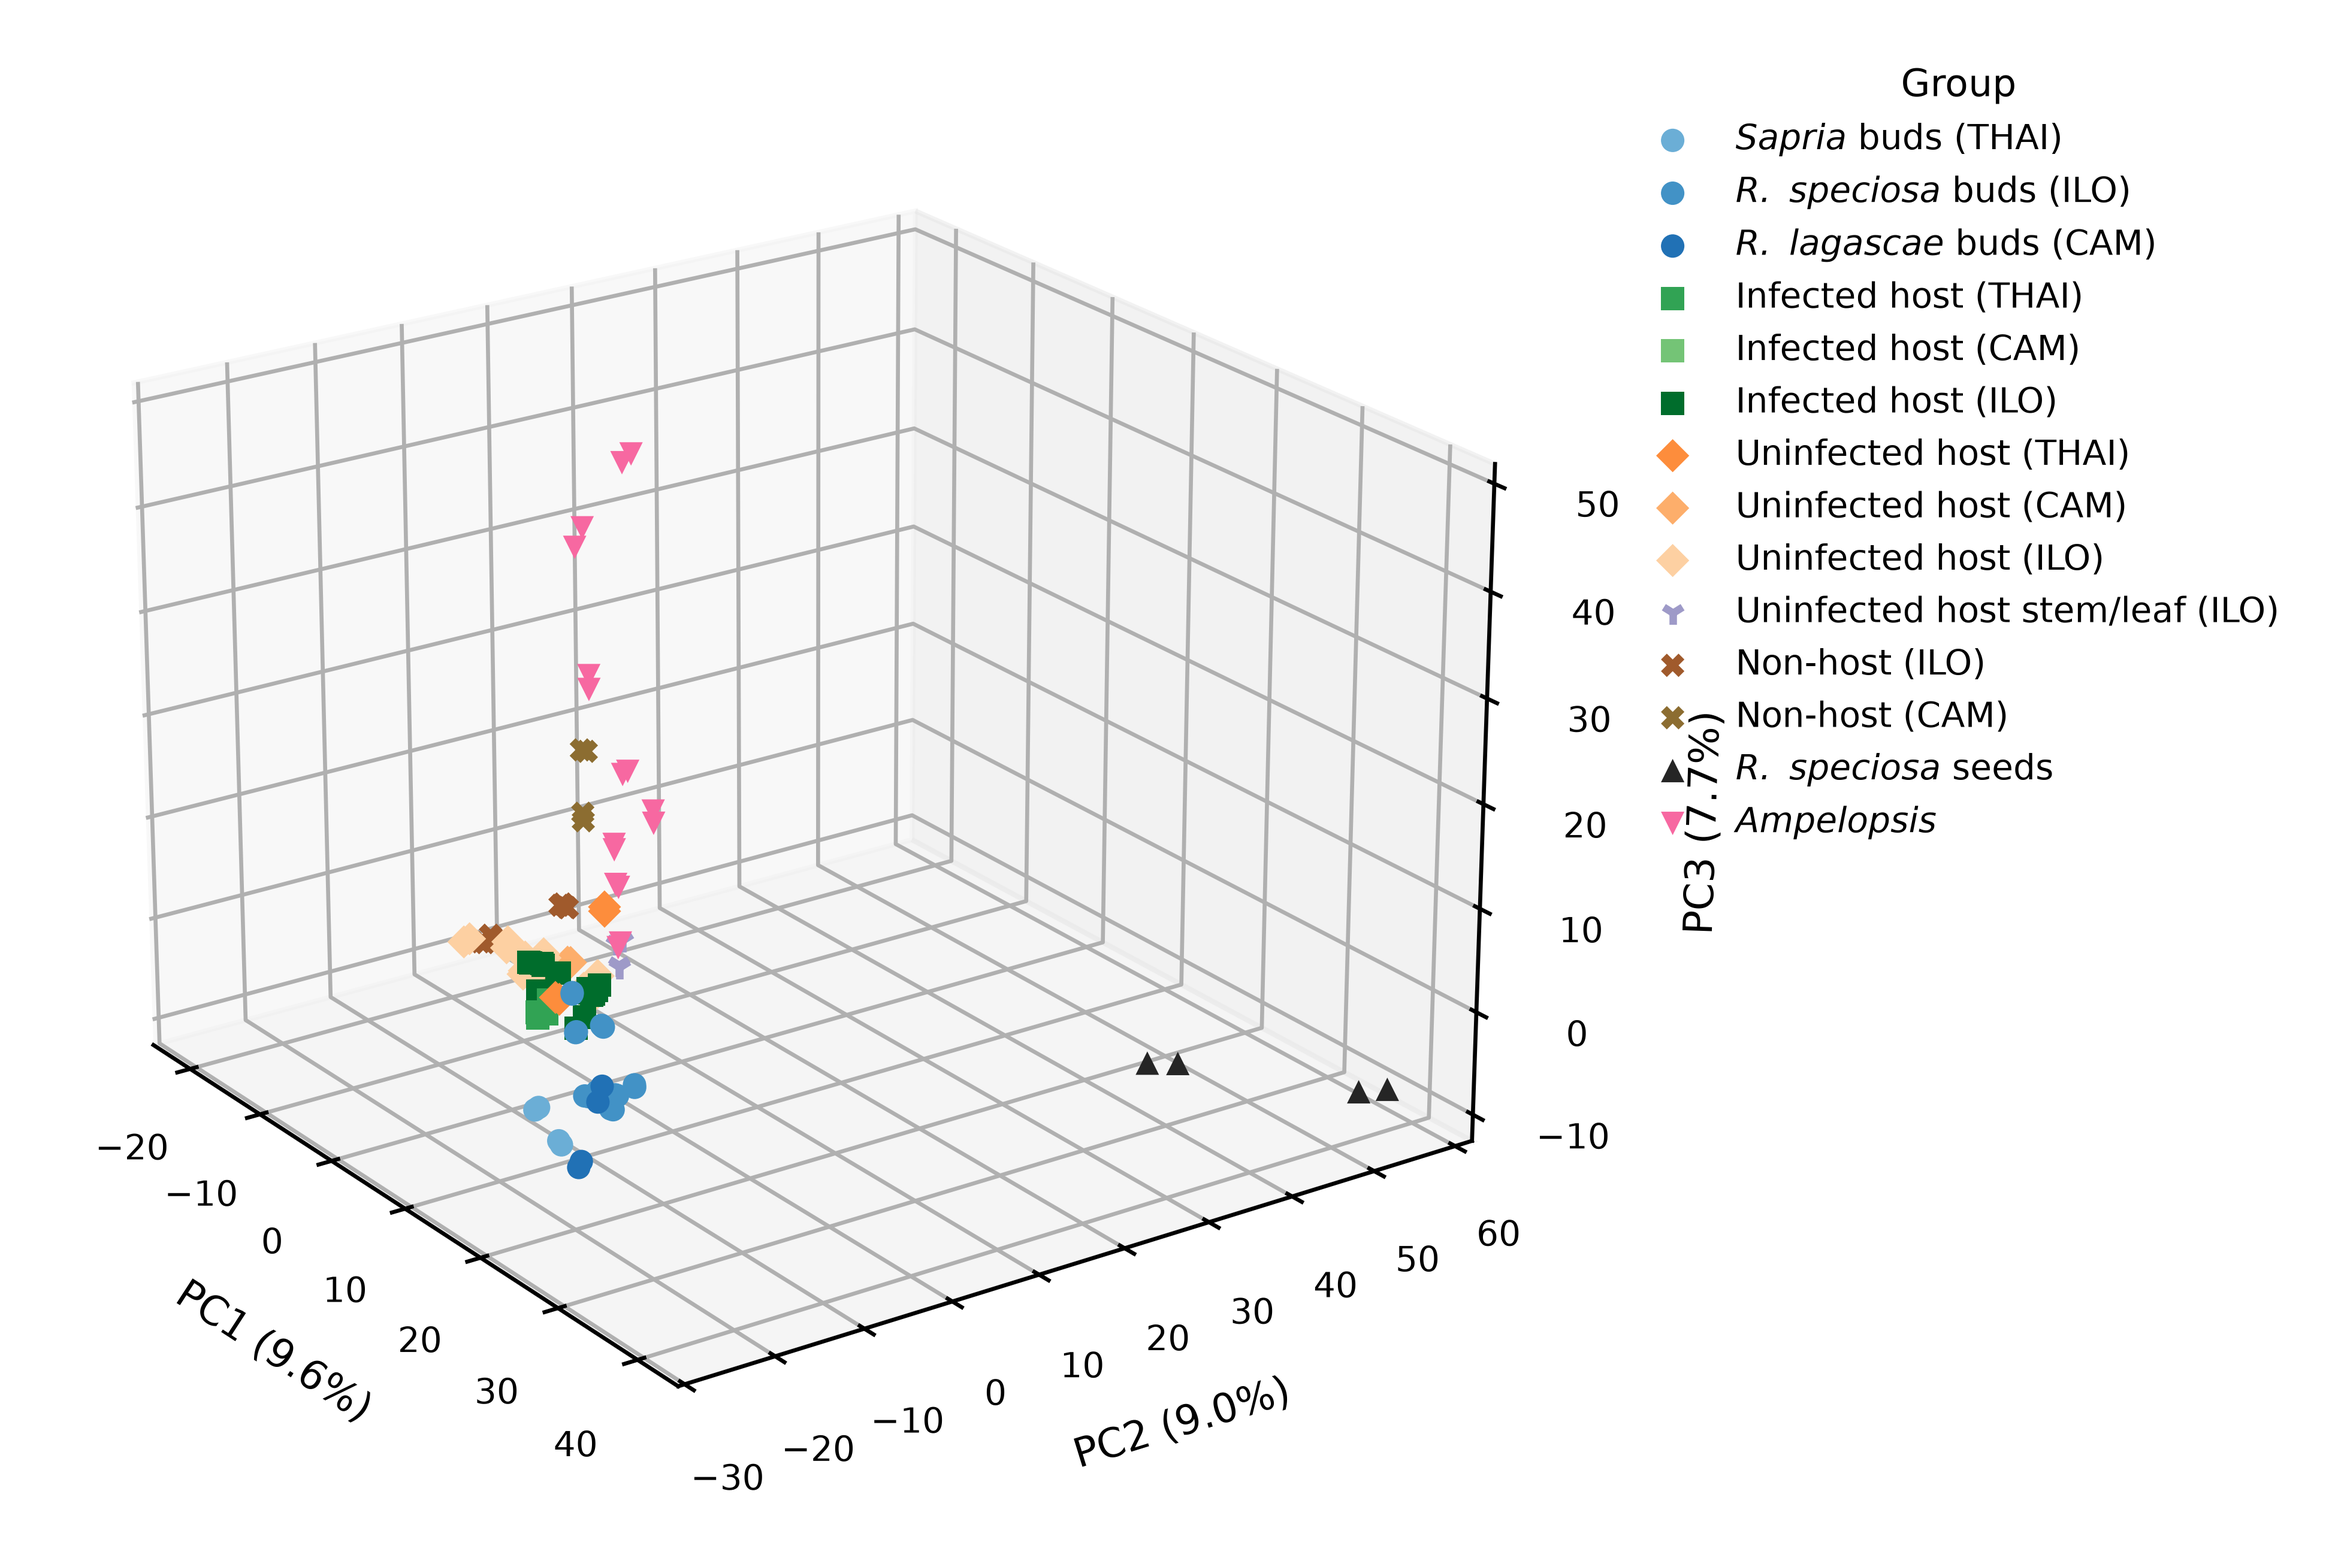
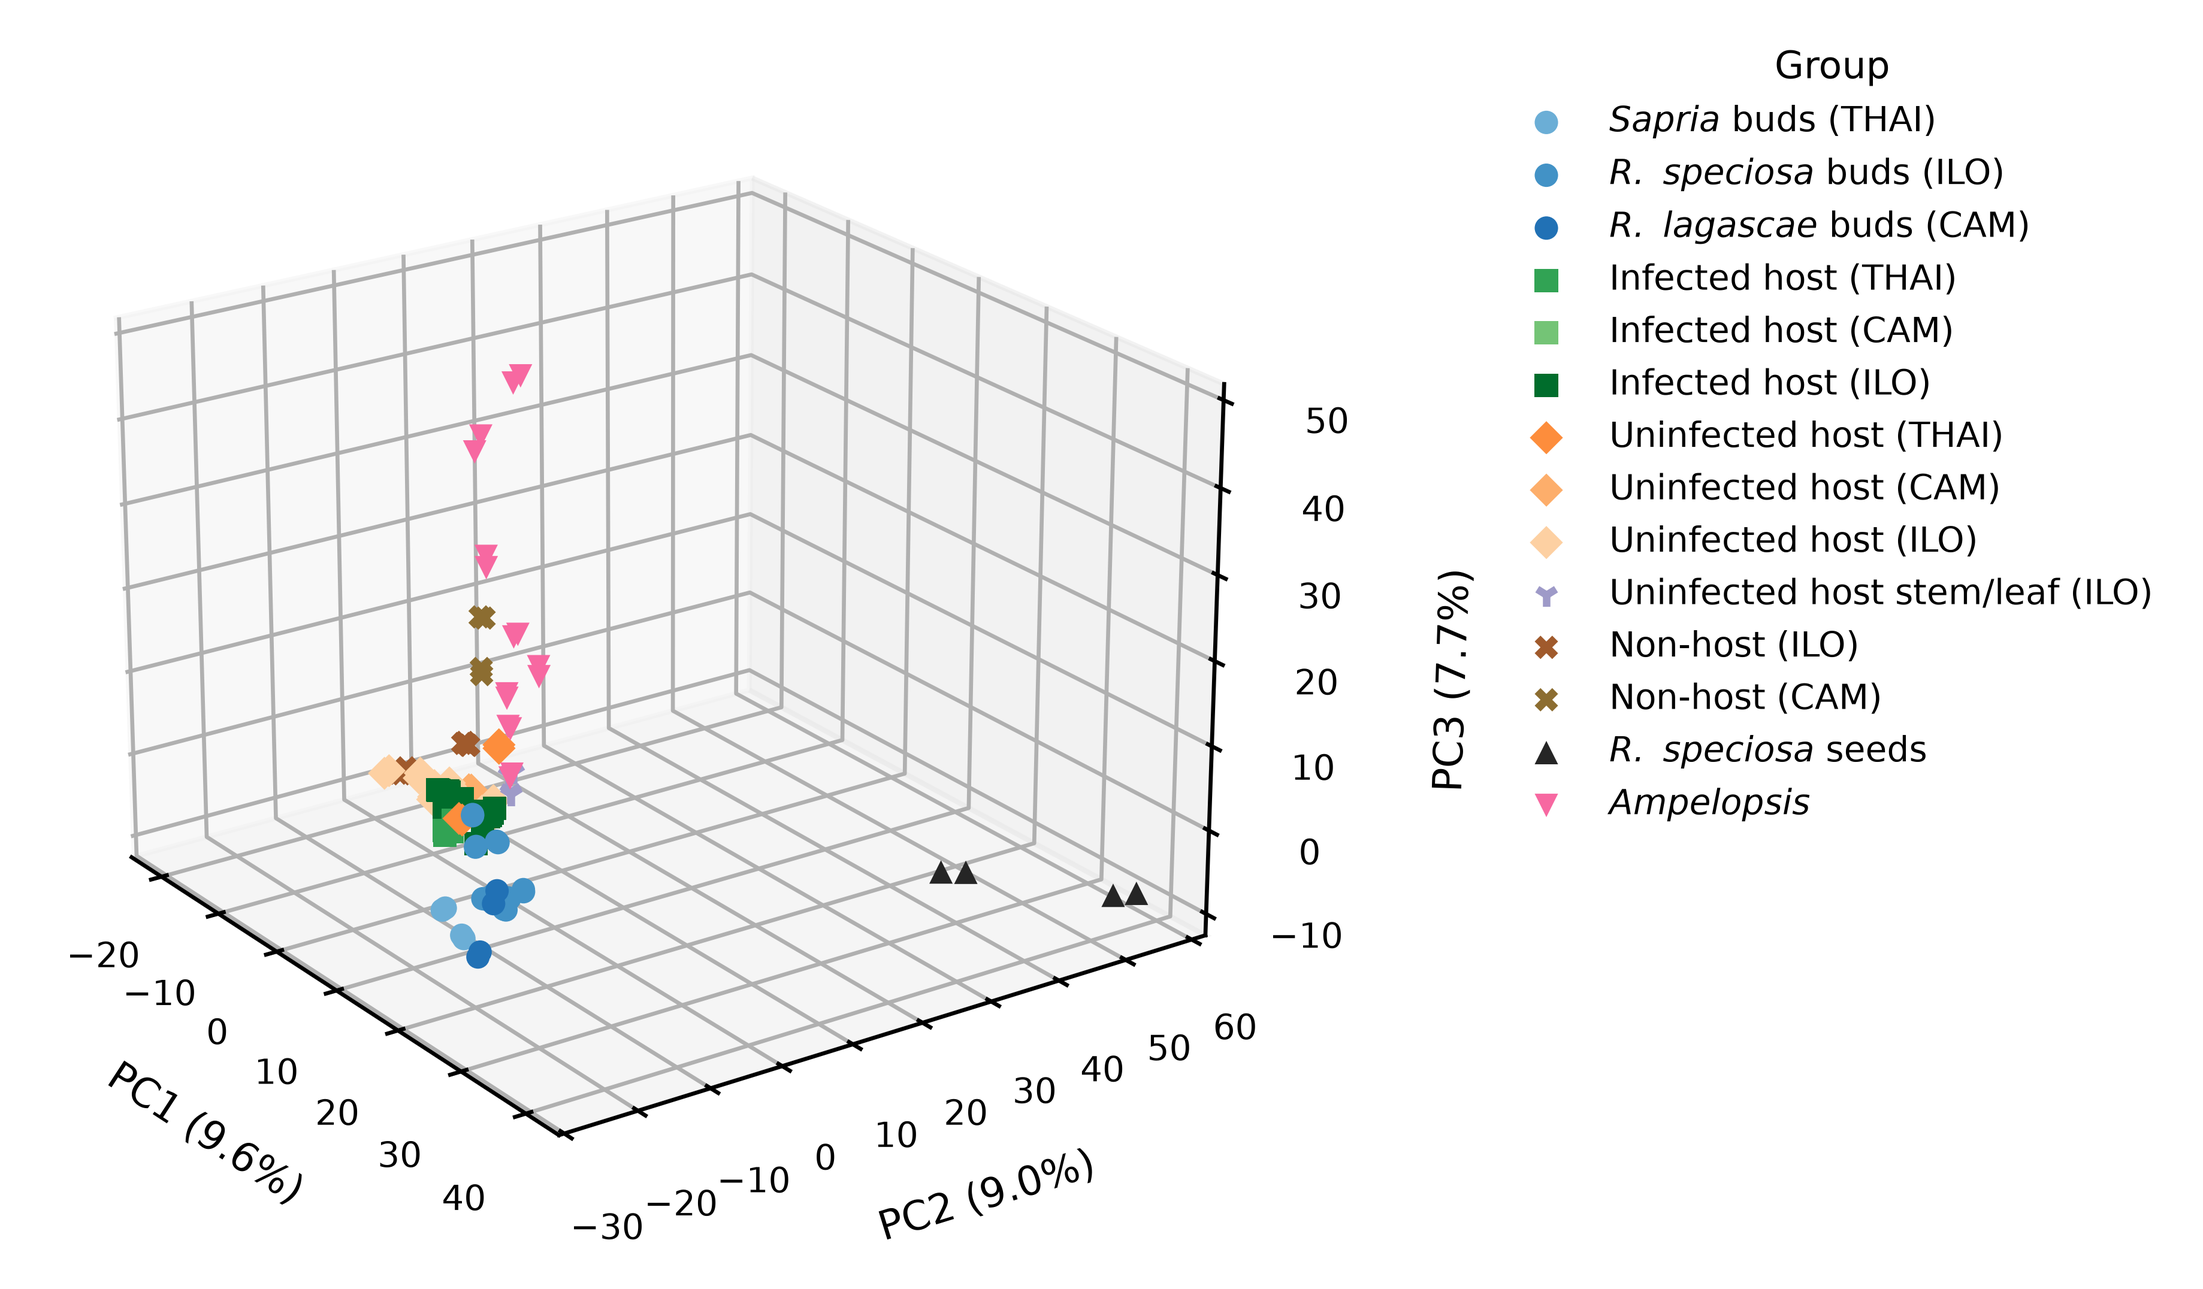
fig 1 z axis overlap fix

diff --git a/figure1/1_pca_3d_sample_groups_v3.py b/figure1/1_pca_3d_sample_groups_v3.py
@@ -110,21 +110,25 @@ for g in legend_order:
 
 ax.set_xlabel(f"PC1 ({ve[0]:.1f}%)")
 ax.set_ylabel(f"PC2 ({ve[1]:.1f}%)")
-ax.set_zlabel(f"PC3 ({ve[2]:.1f}%)")
+ax.set_zlabel(f"PC3 ({ve[2]:.1f}%)", labelpad=6)
 # rotate to a reference-like view (tweak as you wish)
 ax.view_init(elev=22, azim=-35)
 ax.grid(True, linestyle="--", alpha=0.4)
 
 # legend in the same order as legend_order
+LEGEND_ANCHOR = 1.20
+
 handles, labels = ax.get_legend_handles_labels()
 ordered = [(h,l) for g in legend_order for h,l in zip(handles, labels) if l == glabel(g)]
 if ordered:
     h_ord, l_ord = zip(*ordered)
-    ax.legend(h_ord, l_ord, title="Group", bbox_to_anchor=(1.05, 1), loc="upper left", frameon=False)
+    ax.legend(h_ord, l_ord, title="Group", bbox_to_anchor=(LEGEND_ANCHOR, 1),
+              loc="upper left", frameon=False, borderaxespad=0)
 else:
-    ax.legend(title="Group", bbox_to_anchor=(1.02, 1), loc="upper left", frameon=False)
+    ax.legend(title="Group", bbox_to_anchor=(LEGEND_ANCHOR, 1),
+              loc="upper left", frameon=False, borderaxespad=0)
 
-plt.tight_layout()
+fig.subplots_adjust(left=0.0, right=0.68)
 
 # --- 8) Export PCA scores & loadings ---
 scores_out = "PCA_scores_autoscaled_main-data.csv"
